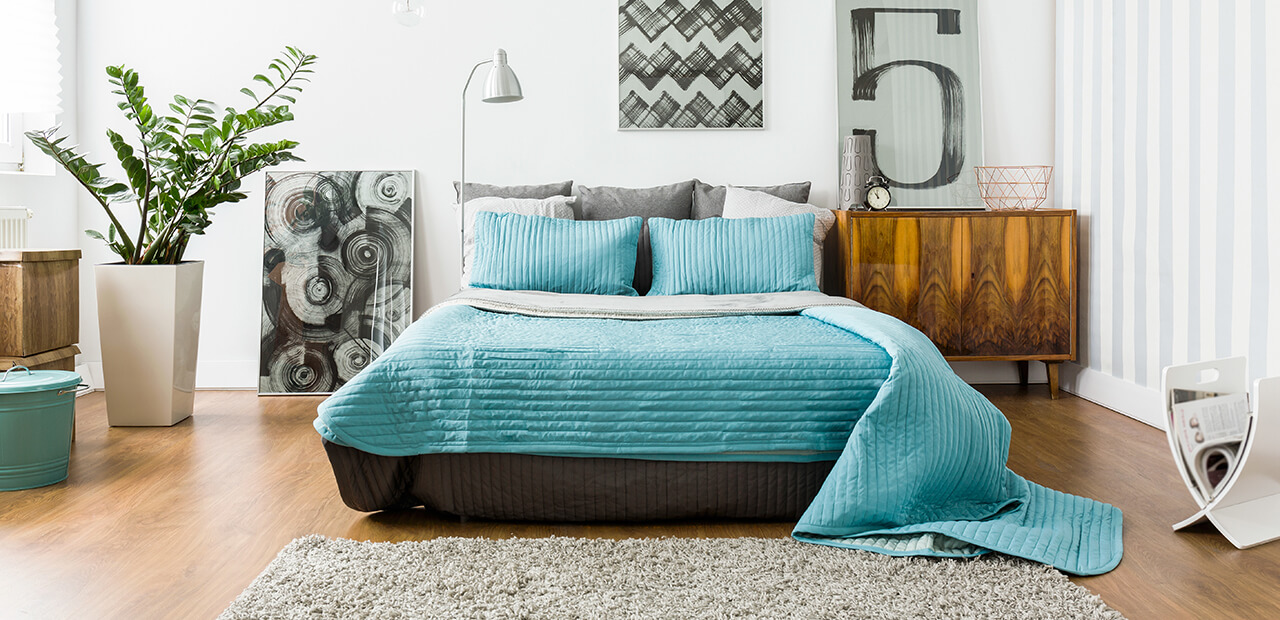
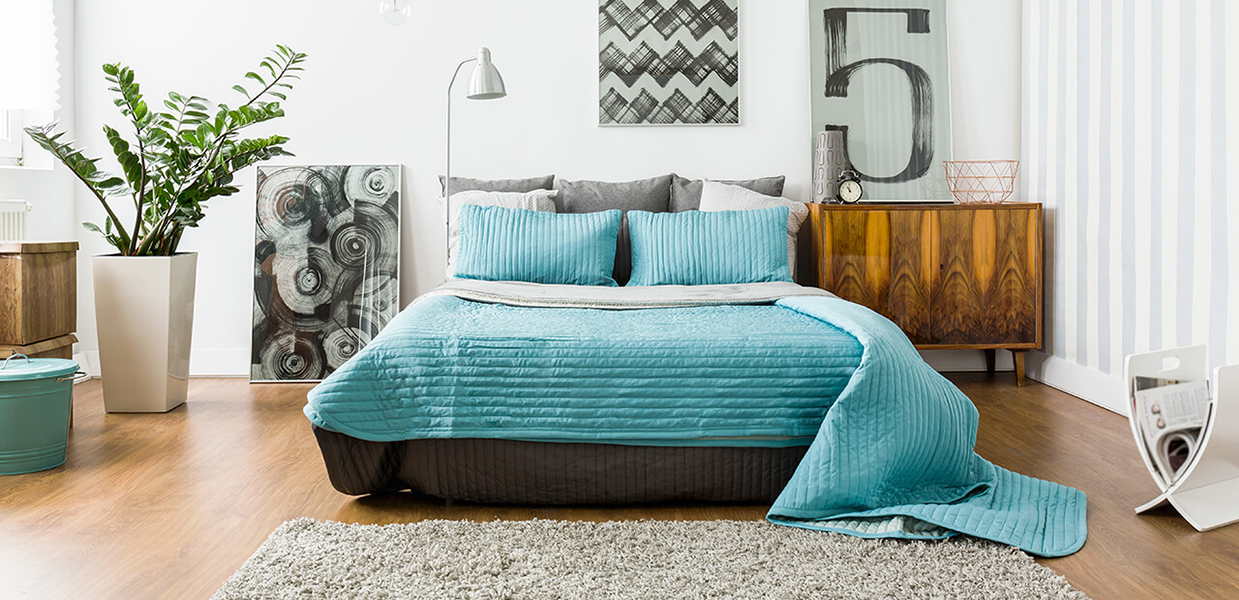
temp carousel img height size

diff --git a/public/css/custom.css b/public/css/custom.css
@@ -43,14 +43,13 @@ h1, h2 {
     /* box-shadow: 0px 0px 15px 0px rgba(0, 0, 0, 1); */
 }
 
-.carousel-inner {
+/* .carousel-inner {
     position: relative;
-    z-index: -1;
-    
-}
+    z-index: -1; 
+} */
 
 img.d-block.w-100 {
-    /* height: 180px; */
+    height: 800px;
 }
 
 form {
